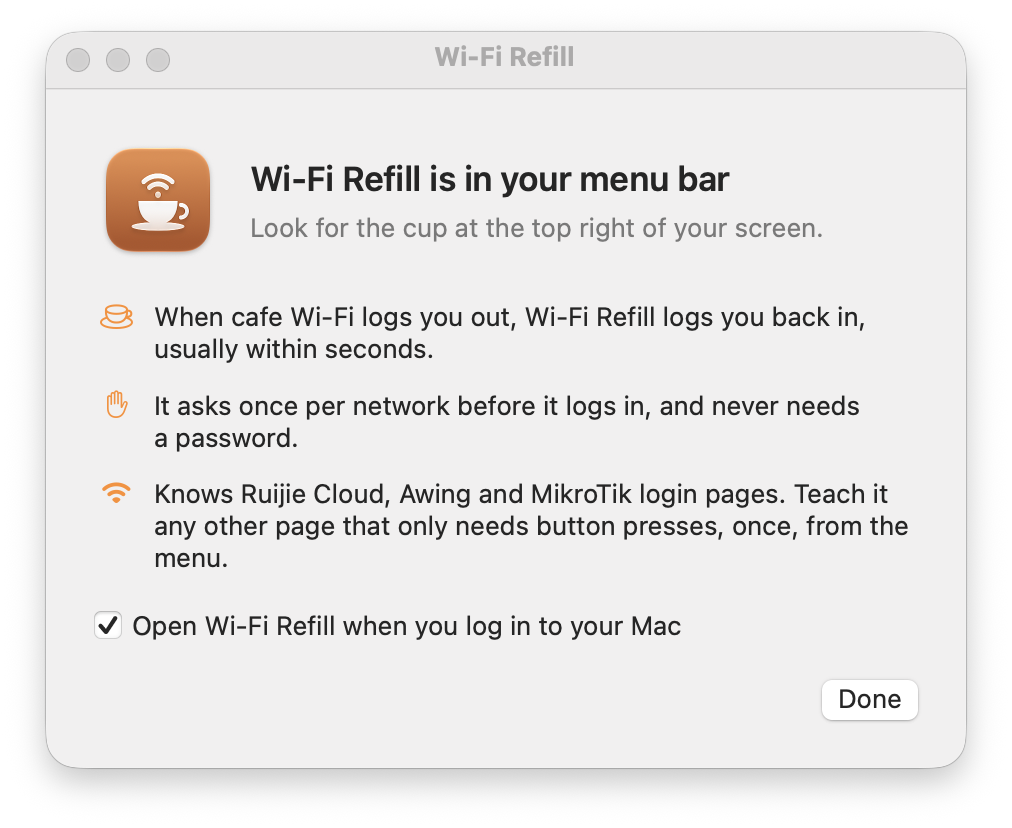
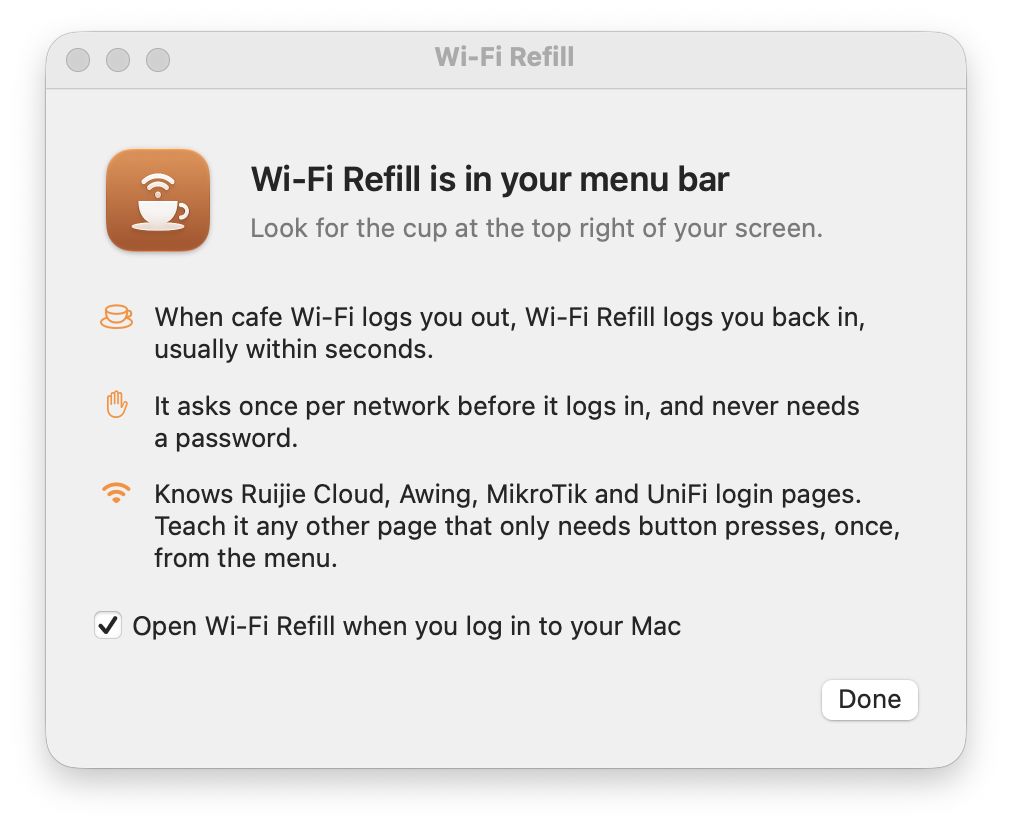
UniFi guest portals that need no password or voucher
Recorded from UniFi Network Application 10.0.162 in a container: the portal keeps the visit in a cookie,
hotspotconfig names the way it logs in, and Connect posts an empty login that answers authorized.
Password, voucher and other portals go to teaching.

Changed region(s): [[0.1532, 0.5737, 0.8883, 0.6944]]

diff --git a/Sources/RefillCore/UniFiGuestPortal.swift b/Sources/RefillCore/UniFiGuestPortal.swift
@@ -1,0 +1,60 @@
+import Foundation
+
+/// UniFi guest portals that log in without a password or a voucher: UniFi Network's hotspot portal set to no
+/// authentication, terms or not.
+///
+/// Recorded from UniFi Network Application 10.0.162 (portal 3.0.16) in a container, not yet on a cafe's network: the
+/// access point sends Apple's check page to `/guest/s/<site>/` on the controller, with `id`, the Mac's Wi-Fi hardware
+/// address, and the access point, the time and the page asked for. Opening that address sets a cookie that carries
+/// them, `hotspotconfig` says how the portal logs in, and its button posts an empty `login`, which answers whether the
+/// Mac may pass. The controller can be on the Wi-Fi or on the internet.
+public enum UniFiGuestPortal: PortalDriver {
+    public static func entry(in probe: [Hop]) -> URL? {
+        probe.compactMap(\.location).first(where: isPortal)
+    }
+
+    static func isPortal(_ url: URL) -> Bool {
+        ["http", "https"].contains(url.scheme) && url.user == nil && url.host != nil
+            && url.path(percentEncoded: true).wholeMatch(of: /\/guest\/s\/[A-Za-z0-9_-]+\//) != nil
+            && URLComponents(url: url, resolvingAgainstBaseURL: true)?.queryItems?.contains { $0.name == "id" && $0.value?.isEmpty == false } == true
+    }
+
+    public static func prepare(from entry: URL, on network: LocalNetwork, client: PortalClient) async throws -> PortalSession {
+        guard let host = entry.host, let portal = URL(string: entry.path(percentEncoded: true), relativeTo: entry)?.absoluteURL else {
+            throw LoginError.unexpected("The login page did not start a session.")
+        }
+        let local = network.contains(host)
+        // The portal keeps this visit's details in a cookie, set by the address the access point sent.
+        if local { _ = try await client.getFromRouter(entry) } else { _ = try await client.get(entry) }
+        let config: [String: Any]
+        do {
+            let data = try await client.fetch(portal.appending(path: "hotspotconfig"), local: local)
+            config = try ((JSONSerialization.jsonObject(with: data) as? [String: Any])?["data"] as? [[String: Any]])?.first ?? [:]
+        } catch {
+            throw LoginError.unexpected("Couldn't read the login page's settings.")
+        }
+        guard let auth = config["auth"] as? String else { throw LoginError.unexpected("Couldn't read the login page's settings.") }
+        guard auth == "none" else { throw LoginError.unsupported("This login page asks for a password or a voucher.") }
+        let ssid = URLComponents(url: entry, resolvingAgainstBaseURL: true)?.queryItems?.first { $0.name == "ssid" }?.value
+        return PortalSession(
+            profile: "unifi:" + (network.signature ?? host) + entry.path(percentEncoded: true),
+            network: ssid.flatMap { $0.isEmpty ? nil : $0 } ?? "Wi-Fi",
+            router: network.router,
+            minutes: nil,
+            details: ["portal": portal.absoluteString, "local": local ? "yes" : "no"]
+        )
+    }
+
+    public static func login(_ session: PortalSession, client: PortalClient) async throws {
+        guard let portal = session.details["portal"].flatMap(URL.init(string:)) else {
+            throw LoginError.unexpected("The login page lost its session.")
+        }
+        try Task.checkCancellation()
+        let data = try await client.fetch(portal.appending(path: "login"), method: "POST", local: session.details["local"] == "yes")
+        let json = try? JSONSerialization.jsonObject(with: data) as? [String: Any]
+        let answer = (json?["data"] as? [[String: Any]])?.first
+        guard (json?["meta"] as? [String: Any])?["rc"] as? String == "ok", answer?["authorized"] as? Bool == true else {
+            throw LoginError.refused("The login page refused the login.")
+        }
+    }
+}

diff --git a/Tests/RefillCoreTests/UniFiTests.swift b/Tests/RefillCoreTests/UniFiTests.swift
@@ -1,0 +1,61 @@
+import Foundation
+import Testing
+@testable import RefillCore
+
+/// UniFi guest portals. In NetworkTests, so these share FakeNetwork one test at a time.
+extension NetworkTests {
+    @Test func uniFiLogsInThroughTheRecordedFlow() async throws {
+        FakeNetwork.serve(UniFiFixture.routes())
+        let session = try await prepare(on: UniFiFixture.network)
+        #expect(session.profile == "unifi:192.168.1.2/guest/s/default/")
+        #expect(session.network == "Cafe Guest")
+        #expect(session.details["local"] == "yes")
+
+        try await UniFiGuestPortal.login(session, client: client)
+        #expect(FakeNetwork.visited == [
+            "captive.apple.com/hotspot-detect.html", "192.168.1.2/guest/s/default/",
+            "192.168.1.2/guest/s/default/hotspotconfig", "192.168.1.2/guest/s/default/login",
+        ])
+        #expect(FakeNetwork.body(postedTo: "/guest/s/default/login") == Data(), "the portal's button posts nothing")
+        #expect(FakeNetwork.hosts == ["captive.apple.com", "192.168.1.2"])
+    }
+
+    @Test func uniFiReachesAControllerOnTheInternet() async throws {
+        let entry = UniFiFixture.entry.replacingOccurrences(of: "192.168.1.2", with: "unifi.example.net")
+        FakeNetwork.serve(UniFiFixture.routes(entry: entry, host: "unifi.example.net"))
+        let session = try await prepare(on: UniFiFixture.network)
+        #expect(session.details["local"] == "no")
+        try await UniFiGuestPortal.login(session, client: client)
+        #expect(FakeNetwork.hosts == ["captive.apple.com", "unifi.example.net"])
+    }
+
+    @Test(arguments: ["password", "voucher", "radius", "custom", "facebook"])
+    func uniFiLeavesOtherWaysToTeaching(auth: String) async throws {
+        FakeNetwork.serve(UniFiFixture.routes(config: UniFiFixture.config.replacingOccurrences(of: #""auth":"none""#, with: #""auth":"\#(auth)""#)))
+        await #expect(throws: LoginError.unsupported("This login page asks for a password or a voucher.")) { try await prepare(on: UniFiFixture.network) }
+        #expect(!FakeNetwork.visited.contains("192.168.1.2/guest/s/default/login"))
+    }
+
+    @Test func uniFiReportsARefusal() async throws {
+        FakeNetwork.serve(UniFiFixture.routes(answer: UniFiFixture.refused))
+        let session = try await prepare(on: UniFiFixture.network)
+        await #expect(throws: LoginError.refused("The login page refused the login.")) { try await UniFiGuestPortal.login(session, client: client) }
+    }
+
+    @Test func uniFiStopsWhenTheSettingsDoNotRead() async throws {
+        FakeNetwork.serve(UniFiFixture.routes(config: "<html>Not Found</html>"))
+        await #expect(throws: LoginError.unexpected("Couldn't read the login page's settings.")) { try await prepare(on: UniFiFixture.network) }
+    }
+
+    @Test(arguments: [
+        "http://192.168.1.2:8880/guest/s/default/?ap=02:00:00:00:00:02&t=1762300000",
+        "http://192.168.1.2:8880/guest/default/?id=02:00:00:00:00:01",
+        "http://192.168.1.2:8880/guest/s/default/../../login?id=02:00:00:00:00:01",
+        "http://user@192.168.1.2:8880/guest/s/default/?id=02:00:00:00:00:01",
+    ])
+    func uniFiRecognisesOnlyAGuestPortalVisit(entry: String) async throws {
+        FakeNetwork.serve(UniFiFixture.routes(entry: entry))
+        guard case .portal(let probe) = await client.probe() else { Issue.record("expected a login page"); return }
+        #expect(Drivers.recognize(probe) == nil)
+    }
+}

diff --git a/Tests/RefillCoreTests/UniFiFixture.swift b/Tests/RefillCoreTests/UniFiFixture.swift
@@ -1,0 +1,28 @@
+import Foundation
+@testable import RefillCore
+
+/// A UniFi guest portal with no authentication: UniFi Network Application 10.0.162 (portal 3.0.16) in a container,
+/// recorded with curl on 2026-11-05, its default site's portal as it ships. `hotspotconfig` keeps two of its country
+/// codes. Not recorded (there was no access point): the access point's redirect, built from the parameters the
+/// controller reads (`ap`, `id`, `t`, `url`, `ssid`), with hardware addresses replaced.
+enum UniFiFixture {
+    static let controller = "192.168.1.2"
+    static let network = LocalNetwork(interface: "en0", router: "192.168.1.1", address: "192.168.1.50", mask: "255.255.255.0")
+    static let portal = "http://\(controller):8880/guest/s/default/"
+    static let entry = portal + "?ap=02:00:00:00:00:02&id=02:00:00:00:00:01&t=1762300000&url=http://captive.apple.com%2fhotspot-detect.html&ssid=Cafe%20Guest"
+
+    static let config = ##"{"meta":{"rc":"ok"},"data":[{"auth":"none","authentication_text":"Select Your authentication method","bg_color":"#005ED9","bg_image_enabled":false,"bg_type":"color","text_color":"#232326","button_color":"#006FFF","button_text_color":"#FFFFFF","button_text":"Login","link_color":"#006FFF","box_color":"#FFFFFF","box_opacity":100,"box_radius":25,"logo_position":"center","logo_size":128,"success_text":"Welcome to UniFi Guest Hotspot","title":"UniFi Guest Hotspot","welcome_text":"Welcome to UniFi Guest Hotspot","box_text_color":"#000000","languages":["en"],"ccodes":[{"key":"AF","name":"Afghanistan"},{"key":"AL","name":"Albania"}]}]}"##
+    static let loggedIn = ##"{"meta":{"rc":"ok"},"data":[{"authorized":true,"redirect_url":"http://captive.apple.com/hotspot-detect.html"}]}"##
+    /// `login` on a portal that wants a password, posted without one.
+    static let refused = ##"{"meta":{"rc":"ok"},"data":[{"authorized":false,"redirect_url":"http://captive.apple.com/hotspot-detect.html"}]}"##
+
+    static func routes(entry: String = entry, config: String = config, answer: String = loggedIn, host: String = controller) -> [String: FakeNetwork.Response] {
+        [
+            "captive.apple.com/hotspot-detect.html": .init(status: 302, location: entry),
+            // The visit's details go into a cookie, and the browser back to the page it asked for.
+            "\(host)/guest/s/default/": .init(status: 302, location: "http://captive.apple.com/hotspot-detect.html"),
+            "\(host)/guest/s/default/hotspotconfig": .init(body: config),
+            "\(host)/guest/s/default/login": .init(body: answer),
+        ]
+    }
+}

diff --git a/Sources/RefillCore/PortalClient.swift b/Sources/RefillCore/PortalClient.swift
@@ -108,11 +108,11 @@ public final class PortalClient: Sendable {
     }
 
     /// The body of a successful response; other statuses throw. A POST goes out empty, from the page at `referer`, as
-    /// a page's script sends it.
-    public func fetch(_ url: URL, method: String = "GET", referer: URL? = nil) async throws -> Data {
+    /// a page's script sends it. `local` marks a device on the Wi-Fi, as for the router.
+    public func fetch(_ url: URL, method: String = "GET", referer: URL? = nil, local: Bool = false) async throws -> Data {
         var request = Self.request(url, method: method, body: method == "POST" ? Data() : nil)
         request.setValue(referer?.absoluteString, forHTTPHeaderField: "Referer")
-        let (data, response) = try await send(request)
+        let (data, response) = try await send(request, local: local)
         guard (200..<300).contains(response.statusCode) else { throw URLError(.badServerResponse) }
         return data
     }

diff --git a/Sources/WiFiRefill/WelcomeWindow.swift b/Sources/WiFiRefill/WelcomeWindow.swift
@@ -55,7 +55,7 @@ private struct WelcomeView: View {
             VStack(alignment: .leading, spacing: 12) {
                 point("cup.and.saucer", L("When cafe Wi-Fi logs you out, Wi-Fi Refill logs you back in, usually within seconds."))
                 point("hand.raised", L("It asks once per network before it logs in, and never needs a password."))
-                point("wifi", L("Knows Ruijie Cloud, Awing and MikroTik login pages. Teach it any other page that only needs button presses, once, from the menu."))
+                point("wifi", L("Knows Ruijie Cloud, Awing, MikroTik and UniFi login pages. Teach it any other page that only needs button presses, once, from the menu."))
             }
             Toggle(L("Open Wi-Fi Refill when you log in to your Mac"), isOn: $model.openAtLogin)
             HStack {

diff --git a/Sources/RefillCore/Drivers.swift b/Sources/RefillCore/Drivers.swift
@@ -49,7 +49,7 @@ public protocol PortalDriver {
 }
 
 public enum Drivers {
-    public static let all: [any PortalDriver.Type] = [RuijieCloud.self, AwingExtreme.self, MikroTikHotspot.self]
+    public static let all: [any PortalDriver.Type] = [RuijieCloud.self, AwingExtreme.self, MikroTikHotspot.self, UniFiGuestPortal.self]
 
     public static func recognize(_ probe: [Hop]) -> (driver: any PortalDriver.Type, entry: URL)? {
         for driver in all {

diff --git a/README.md b/README.md
@@ -63,7 +63,7 @@ hide it.
 
 ## Which login pages work
 
-Wi-Fi Refill knows three kinds of login page, and learns any other page that only needs button presses.
+Wi-Fi Refill knows four kinds of login page, and learns any other page that only needs button presses.
 
 - **Ruijie Cloud** pages with a **One-click Login** button. You will recognise them by the address
   `portal-…ruijienetworks.com` in your browser and the button at the bottom of the page. Tested on a live cafe network
@@ -76,6 +76,9 @@ Wi-Fi Refill knows three kinds of login page, and learns any other page that onl
   address such as `10.5.50.1/login`. Wi-Fi Refill opens the trial link for you. Pages that only take a user name and
   password are for teaching. Checked against MikroTik's RouterOS 7.25.1 in a virtual machine, not yet on a cafe's
   network.
+- **UniFi** guest portals that need no password or voucher, with or without terms to accept. The address has
+  `/guest/s/` in it, often on port 8880. Checked against Ubiquiti's UniFi Network Application 10.0.162 in a container,
+  not yet on a cafe's network.
 
 ### Teach it any other page
 
@@ -109,7 +112,7 @@ Download [Wi-Fi-Refill.dmg](https://github.com/hweihwang/wifi-refill/releases/la
 it and drag Wi-Fi Refill to Applications. It is signed and notarized by Apple. It needs macOS 14 Sonoma or later and
 runs on Apple silicon and Intel Macs.
 
-<img src="docs/welcome.png" width="460" align="right" alt="Wi-Fi Refill's welcome window: it is in your menu bar, logs you back in when cafe Wi-Fi logs you out, asks once per network, knows Ruijie Cloud, Awing and MikroTik login pages, and can be taught any other page that only needs button presses.">
+<img src="docs/welcome.png" width="460" align="right" alt="Wi-Fi Refill's welcome window: it is in your menu bar, logs you back in when cafe Wi-Fi logs you out, asks once per network, knows Ruijie Cloud, Awing, MikroTik and UniFi login pages, and can be taught any other page that only needs button presses.">
 
 Look for the cup in your menu bar. The first time a supported login page appears, Wi-Fi Refill asks whether it may log
 in on that network, and macOS asks whether it may reach devices on your local network. Allow both: the last step of
@@ -192,7 +195,7 @@ swift run refill-doctor    # looks at every step to the internet on this network
 ## License
 
 MIT, see [LICENSE](LICENSE). Wi-Fi Refill uses [Sparkle](https://sparkle-project.org) for updates, also under the MIT
-license. It is not affiliated with Ruijie Networks, Awing, Extreme Networks, MikroTik or Highlands Coffee.
+license. It is not affiliated with Ruijie Networks, Awing, Extreme Networks, MikroTik, Ubiquiti or Highlands Coffee.
 
 Made by [Hoang](https://hweihwang.com/). Found a bug? [Open an issue](https://github.com/hweihwang/wifi-refill/issues).
 Security problems go to [SECURITY.md](SECURITY.md).

diff --git a/CLAUDE.md b/CLAUDE.md
@@ -2,7 +2,7 @@
 
 Menu bar app that logs a Mac back in to cafe Wi-Fi login pages. SwiftPM, no Xcode project.
 
-- `Sources/RefillCore`: everything testable. `PortalClient` (HTTP that never follows redirects by itself, sent straight over the Wi-Fi by `DirectTransport` so a VPN can't hide the login page), `Drivers`, `RuijieCloud`, `AwingExtreme` and `MikroTikHotspot` (one login page kind each), `Gateway` (the Wi-Fi under any VPN), `Recipe` and `Replay` (pages people taught: which buttons, and when to press them, pure), `BuiltInRecipes` (shared pages that ship, after drivers), `PageScript` (the web view's script), `SessionLength` (session length learned from logouts, pure), `WiFiRelay` (SOCKS5 relay that sends a taught page's web view out on the Wi-Fi, only to the internet and the cafe's subnet), `Schedule` (when to check, pure), `PortalReport` (allowlisted summary of unknown pages).
+- `Sources/RefillCore`: everything testable. `PortalClient` (HTTP that never follows redirects by itself, sent straight over the Wi-Fi by `DirectTransport` so a VPN can't hide the login page), `Drivers`, `RuijieCloud`, `AwingExtreme`, `MikroTikHotspot` and `UniFiGuestPortal` (one login page kind each), `Gateway` (the Wi-Fi under any VPN), `Recipe` and `Replay` (pages people taught: which buttons, and when to press them, pure), `BuiltInRecipes` (shared pages that ship, after drivers), `PageScript` (the web view's script), `SessionLength` (session length learned from logouts, pure), `WiFiRelay` (SOCKS5 relay that sends a taught page's web view out on the Wi-Fi, only to the internet and the cafe's subnet), `Schedule` (when to check, pure), `PortalReport` (allowlisted summary of unknown pages).
 - `Sources/WiFiRefill`: AppKit glue. `Watcher` (network events, timers, consent), `LoginBrowser` (the web view that learns and replays a taught page), `AppDelegate` (menu), `WelcomeWindow`, `Hotspot` (turns on and joins the person's iPhone hotspot through Sharing, a private framework).
 - `swift test` replays a recorded real network through `FakeNetwork`. `scripts/install-dev.sh` builds, signs and opens the app. `scripts/release.sh VERSION [--publish]` notarizes, packages and publishes (needs APPLE_API_* env, the Sparkle key, and clones of homebrew-wifi-refill and hweihwang.com next to this repo).
 

diff --git a/CONTRIBUTING.md b/CONTRIBUTING.md
@@ -11,7 +11,7 @@ tested on a real network. A driver needs three things:
 
 1. **A recording.** Connect to the network, wait until the login page appears, and record what the router and the
    login page send back, for example with `curl -v http://captive.apple.com/hotspot-detect.html` and the redirects that
-   follow. When the vendor's own firmware runs in a virtual machine, as MikroTik's RouterOS does, a recording from it
+   follow. When the vendor's own firmware runs in a virtual machine, as MikroTik's RouterOS and UniFi Network do, a recording from it
    counts too; say so in the driver and the README until someone checks it on a real network. **Report This Login Page…** in the menu gives a safe summary to start an issue with. Before you commit a
    recording, replace every value that identifies a person, a device or a network: hardware addresses, public IP
    addresses, router serial numbers, tokens, signatures and session ids. Keep the shape of each value.

diff --git a/CHANGELOG.md b/CHANGELOG.md
@@ -1,5 +1,9 @@
 # Changelog
 
+## 1.9.0
+
+- UniFi guest portals that need no password or voucher: Wi-Fi Refill presses Connect for you, after asking once per network. Checked against UniFi Network Application 10.0.162 in a container.
+
 ## 1.8.0
 
 - When the Wi-Fi's internet is gone, the menu lists your iPhones nearby with their battery: Use the Hotspot on … turns its Personal Hotspot on over Bluetooth and joins it in a few seconds, and Back to Wi-Fi leaves it. Switch to Your iPhone When Wi-Fi Breaks does it by itself after 20 seconds of broken Wi-Fi, never for a login page or a VPN.
